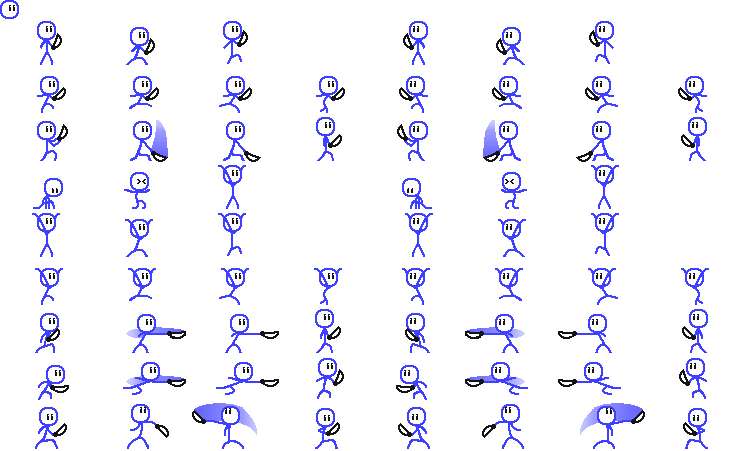
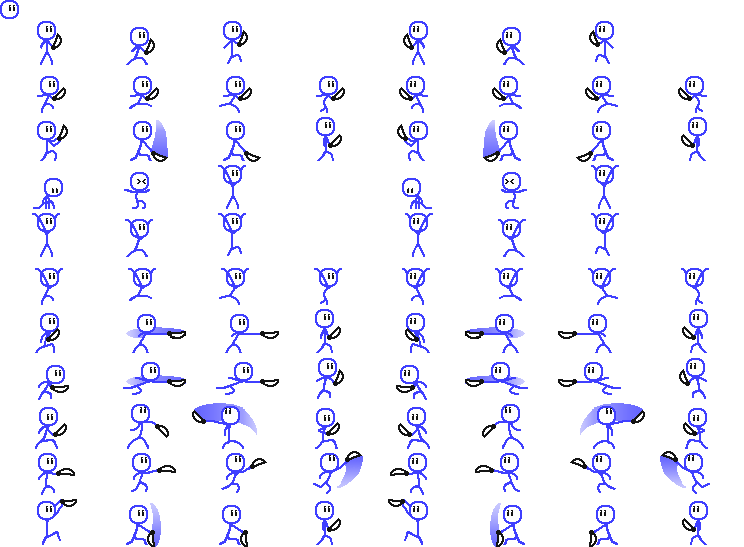
Add Player Up-Attack in air

diff --git a/scripts/classes.js b/scripts/classes.js
@@ -219,6 +219,7 @@ var HarmBox = class HarmBox extends Interactable {
   			var v = this.touches[i];
   			if (v==this.attacker||this.harmed.indexOf(v)!=-1) continue;
   			v.hurt(this.damage,this.attacker!=null?this.attacker:this);
+        if (this.onHurt) this.onHurt(v);
   			if (!v.dead) this.harmed.push(v);
   		}
   		this.time -= 1;
@@ -241,14 +242,26 @@ HarmBox.prototype.hitBoxStroke = "red";
 var AttackBox = class AttackBox extends HarmBox {
   constructor(x,y,width,height,attacker,damage,duration,frames,framerate) {
     var formulaX = function(ent) {
-      var frameVal = this.frames.x[Math.floor(this.frame*this.framerate)];
-      if (!frameVal) frameVal = this.frames.x[0];
-      if (!frameVal) return ent.x;
+      var frameIndex = Math.floor(this.frame*this.framerate);
+
+      var widthVal = this.frames.width[frameIndex];
+      if (widthVal==null) widthVal = this.frames.width[0];
+      if (widthVal!=null) this.width = widthVal;
+
+      var frameVal = this.frames.x[frameIndex];
+      if (frameVal==null) frameVal = this.frames.x[0];
+      if (frameVal==null) return ent.x;
       return ent.x + ent.direction*frameVal;
     };
     var formulaY = function(ent) {
-      var frameVal = this.frames.y[Math.floor(this.frame*this.framerate)];
+      var frameIndex = Math.floor(this.frame*this.framerate);
       this.frame++;
+
+      var heightVal = this.frames.height[frameIndex];
+      if (heightVal==null) heightVal = this.frames.height[0];
+      if (heightVal!=null) this.height = heightVal;
+
+      var frameVal = this.frames.y[frameIndex];
       if (!frameVal) frameVal = this.frames.y[0];
       if (!frameVal) return ent.y;
       return ent.y + frameVal;
@@ -867,7 +880,7 @@ var Entity = class Entity extends PhysicsBox {
   	}
   }
 
-  static defineAttack(name,damage=0,duration=0,cooldown=0,lockMovement=false,lockActions=false,defyGravity=false,prep) {
+  static defineAttack(name,damage=0,duration=0,cooldown=0,lockMovement=false,lockActions=false,defyGravity=false,prep,onHurt) {
     // defines an attack and stores it in this class's attack list
     if (!name) return;
     this.attacks.push({
@@ -878,7 +891,8 @@ var Entity = class Entity extends PhysicsBox {
       lockMovement: lockMovement,
       lockActions: lockActions,
       defyGravity: defyGravity,
-      prep: prep
+      prep: prep,
+      onHurt: onHurt
     });
   }
   static getAttack(name) { //returns attack obj from the class's (or parents') list of attack
@@ -898,6 +912,7 @@ var Entity = class Entity extends PhysicsBox {
         //make attack box
         var a = action.attack;
         this.attackBox = AttackBox.create(a.x[0],a.y[0],a.width,a.height,this,attack.damage,attack.duration,a,action.framerate);
+        if (attack.onHurt) this.attackBox.onHurt = attack.onHurt;
         //set player states
         this.attackCooldown = attack.cooldown;
         if (attack.defyGravity) this.defyGravity = attack.defyGravity;
@@ -942,6 +957,7 @@ var Player = class Player extends Entity {
   	this.attackHeld = 0;
   	this.doorEnterTick = 0;
   	this.doorWaitStep = 0;
+    this.canUpAirAttack = true;
   }
   static onCreate() {
     this.ctrls = {
@@ -989,7 +1005,10 @@ var Player = class Player extends Entity {
     else if (this.ducking) this.duck(false);
     if (pad.ready("attack")) {
       if (this.held==null) {
-        if (this.isGrounded&&pad.pressed("lookUp")) this.activateAttack("attack-upward");
+        if (pad.pressed("lookUp")||pad.ready("jump")) {
+          if (this.isGrounded) this.activateAttack("attack-upward");
+          else if (this.canUpAirAttack) this.activateAttack("attack-upward-air");
+        }
         else this.activateAttack("attack");
         pad.use("attack");
       }
@@ -1138,6 +1157,8 @@ var Player = class Player extends Entity {
 
   	if (this.attackCooldown>0) this.attackCooldown -= 1;
 
+    if (this.isGrounded) this.canUpAirAttack = true;
+
     //return player state to normal when lift animation is complete
     if (this.inLiftAnim&&(this.animCurrent!="lift")) {
       this.inLiftAnim = false;
@@ -1239,6 +1260,14 @@ Player.defineAttack("attack-charge-air",2,20,30,true,true,true,function() {
   this.velY = 0;
 });
 Player.defineAttack("attack-upward",1,20,30,true);
+Player.defineAttack("attack-upward-air",1,20,30,false,true,true,function() {
+  this.velY = -6;
+  this.move(5);
+  this.canUpAirAttack = false;
+},
+function() {
+  this.attacker.canUpAirAttack = true;
+});
 
 var Enemy = class Enemy extends Entity {
   constructor(x,y,width,height,health,sheet,duckHeight) {
